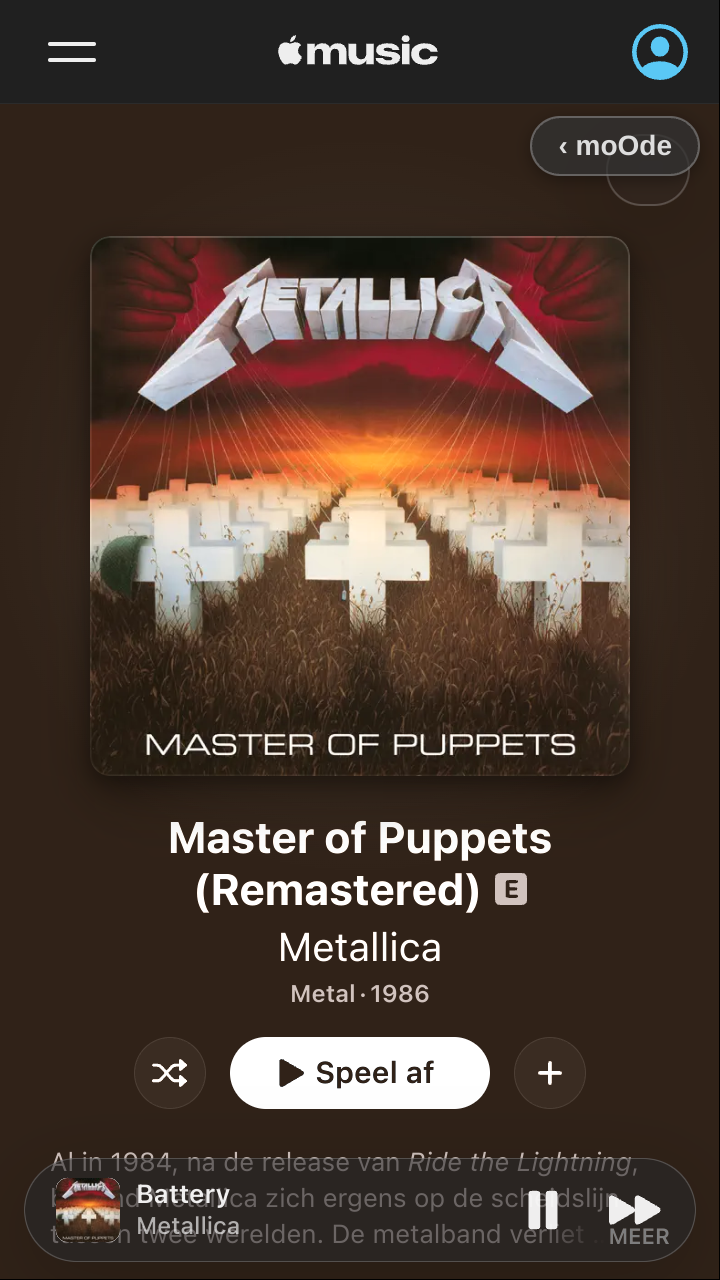
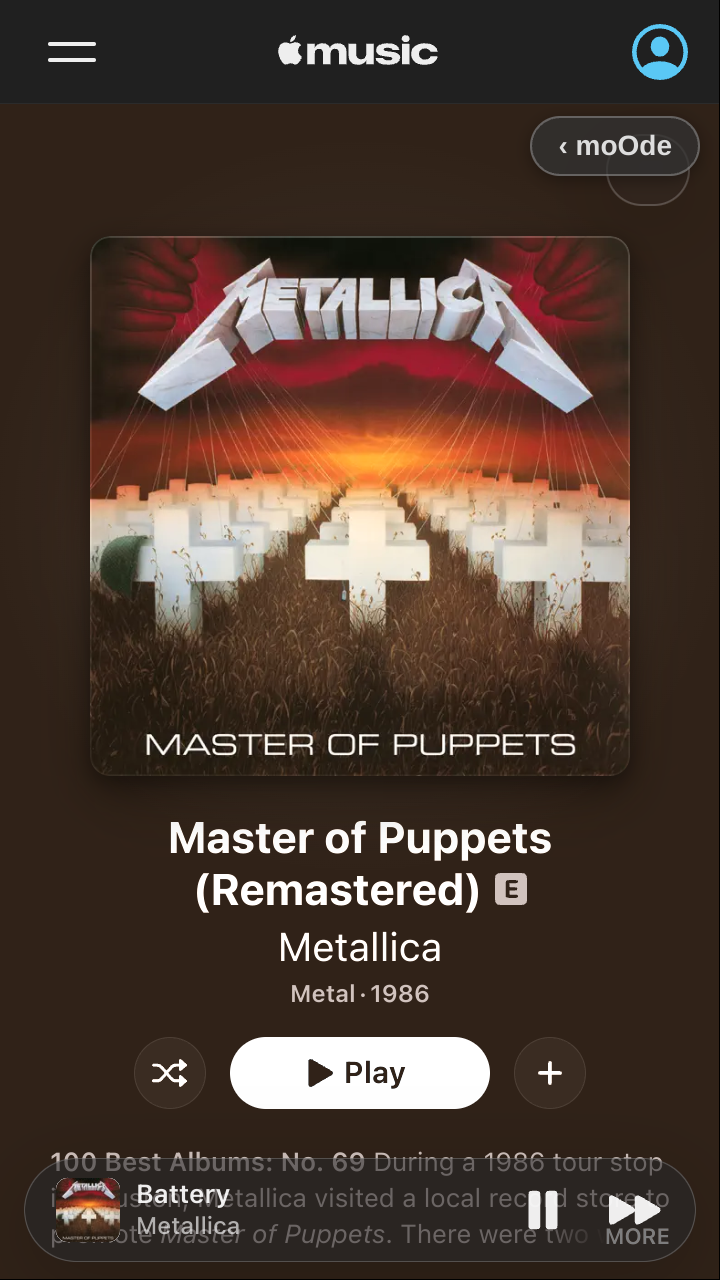
AppleMusic: theme-coloured remote overlay, new screenshots
The Siri Remote overlay inside Apple Music takes the moOde theme's colours
(theme.js), like moOde's own page. Dark Glass references are removed and the
screenshots are retaken with moOde's Default theme and the English interface.

Changed region(s): [[0.0611, 0.875, 0.9167, 0.9688], [0.3667, 0.8125, 0.6111, 0.875]]

diff --git a/AppleMusic/extension/siri-overlay.css b/AppleMusic/extension/siri-overlay.css
@@ -1,5 +1,6 @@
 /* SiriRemote on-screen feedback inside Apple Music. Same look as the overlay of
-   SiriRemote/moode-navigation/siri-remote-navigation.js (copied from there). */
+   SiriRemote/moode-navigation/siri-remote-navigation.js (copied from there).
+   Fill, text and shadow colours come from the moOde theme (theme.js). */
 #siri-browser-overlay {
     position: fixed;
     z-index: 2147483647;
@@ -20,7 +21,7 @@
     display: flex;
     align-items: center;
     justify-content: center;
-    color: rgba(255,255,255,.97);
+    color: var(--siri-overlay-text, rgba(255,255,255,.97));
     text-align: center;
     font-family: Lato, sans-serif;
     border: 1px solid rgba(255,255,255,.32);
@@ -50,7 +51,7 @@
 }
 #siri-browser-overlay .siri-overlay-glass,
 #siri-browser-overlay .siri-overlay-lens::before {
-    background-color: rgba(16,19,24,.90);
+    background-color: var(--siri-overlay-fill, rgba(16,19,24,.90));
     background-image:
         radial-gradient(ellipse at 18% 0, rgba(255,255,255,.15), transparent 38%),
         linear-gradient(145deg, rgba(255,255,255,.055), rgba(8,10,14,.18));
@@ -93,11 +94,11 @@
     justify-content: center;
     gap: .04em;
     text-shadow:
-        -1px -1px 2px rgba(0,0,0,.92),
-         1px -1px 2px rgba(0,0,0,.92),
-        -1px  1px 2px rgba(0,0,0,.92),
-         1px  1px 2px rgba(0,0,0,.92),
-         0 2px 7px rgba(0,0,0,.78);
+        -1px -1px 2px var(--siri-overlay-shadow, rgba(0,0,0,.92)),
+         1px -1px 2px var(--siri-overlay-shadow, rgba(0,0,0,.92)),
+        -1px  1px 2px var(--siri-overlay-shadow, rgba(0,0,0,.92)),
+         1px  1px 2px var(--siri-overlay-shadow, rgba(0,0,0,.92)),
+         0 2px 7px var(--siri-overlay-shadow, rgba(0,0,0,.78));
     filter: drop-shadow(0 2px 9px rgba(0,0,0,.50));
 }
 #siri-browser-overlay .siri-overlay-label {

diff --git a/AppleMusic/extension/theme.js b/AppleMusic/extension/theme.js
@@ -1,6 +1,7 @@
 // Apple Music in moOde's theme: background, text and accent colour from
 // Preferences > Appearance, and moOde's blurred cover backdrop behind the
-// full-screen player. Light/dark follows the theme too (launcher flag).
+// full-screen player. Light/dark follows the theme too (launcher flag), and
+// so do the colours of the Siri Remote overlay.
 (function () {
     'use strict';
     if (window.top !== window) { return; }
@@ -32,6 +33,10 @@
             '  --playerBackgroundFallback: ' + bga(0.97) + ' !important;',
             '  --fallbackMaterialBG: ' + bga(0.97) + ' !important;',
             '  --glassMaterialBackground: ' + mbg + ' !important;',
+            // Siri Remote overlay (siri-overlay.css), as in moOde's page.
+            '  --siri-overlay-fill: ' + bga(0.9) + ';',
+            '  --siri-overlay-text: ' + t.tx + ';',
+            '  --siri-overlay-shadow: ' + (t.dark ? 'rgba(0,0,0,.92)' : 'rgba(255,255,255,.85)') + ';',
             '}',
             'html, body { background-color: ' + bg + ' !important; }',
             '.navigation { background-color: ' + bg + ' !important; }',

diff --git a/AppleMusic/readme.md b/AppleMusic/readme.md
@@ -88,7 +88,7 @@ in from your computer through Chromium's remote inspector:
   <img width="350" alt="Apple Music album page on the moOde display" src="assets/applemusic-album.png" />
   <img width="350" alt="Apple Music full-screen player with the blurred cover backdrop" src="assets/applemusic-player.png" />
 </p>
-<sub>Apple Music on the 720 × 1280 Touch Display 2 with the Dark Glass theme. Left: an album page with the <b>‹ moOde</b> button and the mini player. Right: the full-screen player with moOde's blurred cover backdrop.</sub><br><br>
+<sub>Apple Music on the 720 × 1280 Touch Display 2 with a dark moOde theme. Left: an album page with the <b>‹ moOde</b> button and the mini player. Right: the full-screen player with moOde's blurred cover backdrop.</sub><br><br>
 
 ### Apple Music in moOde
 
@@ -124,8 +124,8 @@ MPD and Apple Music share the output device; whichever starts last wins:
 
 Apple Music follows the theme chosen in moOde (**Preferences → Appearance**):
 
-- light or dark Apple Music, like the theme's text colour (Dark Glass, Default
-  and other dark themes give a dark Apple Music);
+- light or dark Apple Music, like the theme's text colour (dark themes such as
+  Default give a dark Apple Music);
 - the theme's background colour for pages, navigation, mini player and
   full-screen player;
 - moOde's accent colour for Apple Music's buttons and highlights;
@@ -154,7 +154,7 @@ With the [SiriRemote](../SiriRemote/readme.md) project installed:
   Music while it is the source; other moOde views navigate as usual.
 - The remote's on-screen feedback (volume, play/pause, next, battery,
   shutdown countdown) is shown on top of Apple Music too, centred on the
-  cover of the full-screen player.
+  cover of the full-screen player, in the colours of the moOde theme.
 
 <img width="350" alt="Siri Remote volume overlay on top of Apple Music" src="assets/applemusic-remote-overlay.png" />
 <br><sub>The Siri Remote's volume overlay on top of Apple Music's full-screen player.</sub><br><br>
